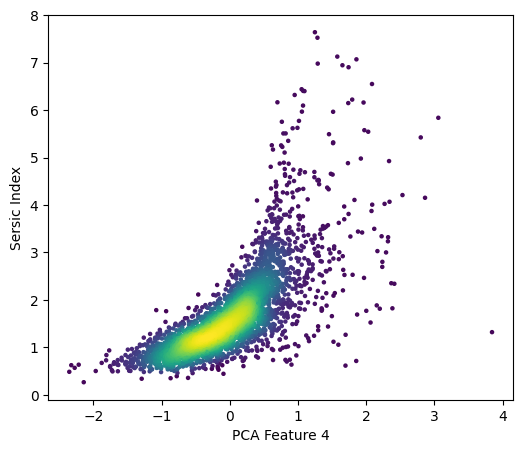
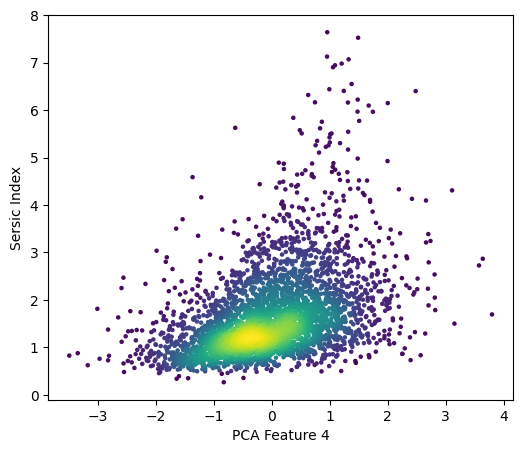
Code

diff --git a/vae_eagle.py b/vae_eagle.py
@@ -15,12 +15,12 @@ from matplotlib import image as mpimg
 
 
 
-encoding_dim = 15
-run = 2
+encoding_dim = 21
+run = 1
 
 # select which gpu to use
 os.environ["CUDA_DEVICE_ORDER"]="PCI_BUS_ID"
-os.environ["CUDA_VISIBLE_DEVICES"]="9"
+os.environ["CUDA_VISIBLE_DEVICES"]="0"
 
 # number of epochs for run
 epochs = 750
@@ -33,7 +33,7 @@ batch_size = 32
 
 
 # for run in range(2, 4):
-for run in [1]:
+for run in [1, 2, 3]:
 
     # normalise each band individually
     def normalise_independently(image):
@@ -477,16 +477,16 @@ for run in [1]:
                 reconstruction = self.decoder(z)
 
                 # calculate the binary cross entropy reconstruction loss (sum over each pixel and average (mean) across each channel and across the batch)
-                # reconstruction_loss = ops.mean(
-                #     ops.sum(keras.losses.binary_crossentropy(data, reconstruction), axis=(1, 2),
-                #     )
-                # )
-                reconstruction_loss = ops.mean(keras.losses.binary_crossentropy(data, reconstruction))
+                reconstruction_loss = ops.mean(
+                    ops.sum(keras.losses.binary_crossentropy(data, reconstruction), axis=(1, 2),
+                    )
+                )
+                # reconstruction_loss = ops.mean(keras.losses.binary_crossentropy(data, reconstruction))
 
                 # calculate the kl divergence (sum over each latent feature and average (mean) across the batch)
                 kl_loss = -0.5 * (1 + z_log_var - ops.square(z_mean) - ops.exp(z_log_var))
-                # kl_loss = ops.mean(ops.sum(kl_loss, axis=1))
-                kl_loss = ops.mean(kl_loss)
+                kl_loss = ops.mean(ops.sum(kl_loss, axis=1))
+                # kl_loss = ops.mean(kl_loss)
 
                 # total loss is the sum of reconstruction loss and kl divergence
                 total_loss = reconstruction_loss + kl_loss
@@ -600,11 +600,11 @@ for run in [1]:
 
 
     # save the weights
-    vae.save_weights(filepath="Variational Eagle/Weights/Fully Balanced Mean/" + str(encoding_dim) + "_feature_" + str(epochs) + "_epoch_" + str(batch_size) + "_bs_weights_" + str(run) + ".weights.h5", overwrite=True)
+    vae.save_weights(filepath="Variational Eagle/Weights/Fully Balanced/" + str(encoding_dim) + "_feature_" + str(epochs) + "_epoch_" + str(batch_size) + "_bs_weights_" + str(run) + ".weights.h5", overwrite=True)
 
     # generate extracted features from trained encoder and save as numpy array
     extracted_features = vae.encoder.predict(train_images)
-    np.save("Variational Eagle/Extracted Features/Fully Balanced Mean/" + str(encoding_dim) + "_feature_" + str(epochs) + "_epoch_" + str(batch_size) + "_bs_features_" + str(run) + ".npy", extracted_features)
+    np.save("Variational Eagle/Extracted Features/Fully Balanced/" + str(encoding_dim) + "_feature_" + str(epochs) + "_epoch_" + str(batch_size) + "_bs_features_" + str(run) + ".npy", extracted_features)
 
     print(np.array(extracted_features).shape)
 
@@ -612,7 +612,7 @@ for run in [1]:
     loss = np.array([model_loss.history["loss"][-1], model_loss.history["reconstruction_loss"][-1], model_loss.history["kl_loss"][-1]])
     print("\n \n" + str(encoding_dim))
     print(str(loss[0]) + "   " + str(loss[1]) + "   " + str(loss[2]) + "\n")
-    np.save("Variational Eagle/Loss/Fully Balanced Mean/" + str(encoding_dim) + "_feature_" + str(epochs) + "_epoch_" + str(batch_size) + "_bs_loss_" + str(run) + ".npy", loss)
+    np.save("Variational Eagle/Loss/Fully Balanced/" + str(encoding_dim) + "_feature_" + str(epochs) + "_epoch_" + str(batch_size) + "_bs_loss_" + str(run) + ".npy", loss)
 
 
 
@@ -628,7 +628,7 @@ for run in [1]:
     axs2.set_ylabel("KL Loss")
     plt.legend()
 
-    plt.savefig("Variational Eagle/Loss Plots/fully_balanced_mean_" + str(encoding_dim) + "_feature_" + str(epochs) + "_epochs_" + str(batch_size) + "_bs_loss_" + str(run))
+    plt.savefig("Variational Eagle/Loss Plots/fully_balanced_" + str(encoding_dim) + "_feature_" + str(epochs) + "_epochs_" + str(batch_size) + "_bs_loss_" + str(run))
     plt.show()
 
 
@@ -671,7 +671,7 @@ for run in [1]:
         axs[1,i].get_xaxis().set_visible(False)
         axs[1,i].get_yaxis().set_visible(False)
 
-    plt.savefig("Variational Eagle/Reconstructions/Testing/fully_balanced_mean" + str(encoding_dim) + "_feature_" + str(epochs) + "_epoch_" + str(batch_size) + "_bs_reconstruction_" + str(run))
+    plt.savefig("Variational Eagle/Reconstructions/Testing/fully_balanced" + str(encoding_dim) + "_feature_" + str(epochs) + "_epoch_" + str(batch_size) + "_bs_reconstruction_" + str(run))
     plt.show()
 
 

diff --git a/optimal_features.py b/optimal_features.py
@@ -56,7 +56,7 @@ for i in range(len(total_loss_1)):
     kl_sorted = np.sort(np.array([kl_loss_1[i], kl_loss_2[i], kl_loss_3[i]]))
 
     # add the sorted values to the loss dataframe
-    df_loss.loc[len(df_loss)] = [i] + list(total_sorted) + list(reconstruction_sorted) + list(kl_sorted)
+    df_loss.loc[len(df_loss)] = [i+1] + list(total_sorted) + list(reconstruction_sorted) + list(kl_sorted)
 
 print(df_loss)
 
@@ -74,13 +74,31 @@ kl_err_lower = np.array(df_loss["Med KL"] - df_loss["Min KL"])
 
 
 
-fig, axs = plt.subplots(3, 1, figsize=(12, 12))
+fig, axs = plt.subplots(3, 1, figsize=(12, 15))
 
 axs[0].errorbar(df_loss["Extracted Features"], df_loss["Med Total"], yerr=[total_err_lower, total_err_upper], fmt="o", label="750 Epoch, 32 Batch Size")
 axs[1].errorbar(df_loss["Extracted Features"], df_loss["Med Reconstruction"], yerr=[reconstruction_err_lower, reconstruction_err_upper], fmt="o", label="750 Epoch, 32 Batch Size")
 axs[2].errorbar(df_loss["Extracted Features"], df_loss["Med KL"], yerr=[kl_err_lower, kl_err_upper], fmt="o", label="750 Epoch, 32 Batch Size")
 
+axs[0].set_xticks([2, 4, 6, 8, 10, 12, 14, 16, 18, 20])
+axs[1].set_xticks([2, 4, 6, 8, 10, 12, 14, 16, 18, 20])
+axs[2].set_xticks([2, 4, 6, 8, 10, 12, 14, 16, 18, 20])
+
+axs[0].set_title("Total Loss")
+axs[1].set_title("Reconstruction Loss")
+axs[2].set_title("KL Loss")
+
+axs[0].set_ylabel("Loss")
+axs[1].set_ylabel("BCE Loss")
+axs[2].set_ylabel("KL Divergence")
+
+axs[0].set_xlabel("Latent Features")
+axs[1].set_xlabel("Latent Features")
+axs[2].set_xlabel("Latent Features")
+
+plt.savefig("Variational Eagle/Plots/loss_pot", bbox_inches='tight')
 plt.show()
+
 
 
 

diff --git a/comparison-extracted_features.py b/comparison-extracted_features.py
@@ -23,8 +23,8 @@ pd.set_option('display.max_columns', None)
 pd.set_option('display.width', None)
 
 
-encoding_dim = 13
-run = 3
+encoding_dim = 10
+run = 1
 epochs = 750
 batch_size = 32
 
@@ -288,7 +288,7 @@ for run in [1, 2, 3]:
 
 
     # plt.savefig("Variational Eagle/Correlation Plots/fully_balanced_" + str(encoding_dim) + "_feature_vae_all_property_correlation_" + str(run), bbox_inches='tight')
-    plt.savefig("Variational Eagle/Correlation Plots/Correlation Fully Balanced/Mean/" + str(encoding_dim) + "_feature_" + str(epochs) + "_epoch_" + str(batch_size) + "_bs_correlation_" + str(run), bbox_inches='tight')
+    plt.savefig("Variational Eagle/Correlation Plots/Correlation Fully Balanced/Sampled" + str(encoding_dim) + "_feature_" + str(epochs) + "_epoch_" + str(batch_size) + "_bs_correlation_" + str(run), bbox_inches='tight')
     # plt.show()
 
 
